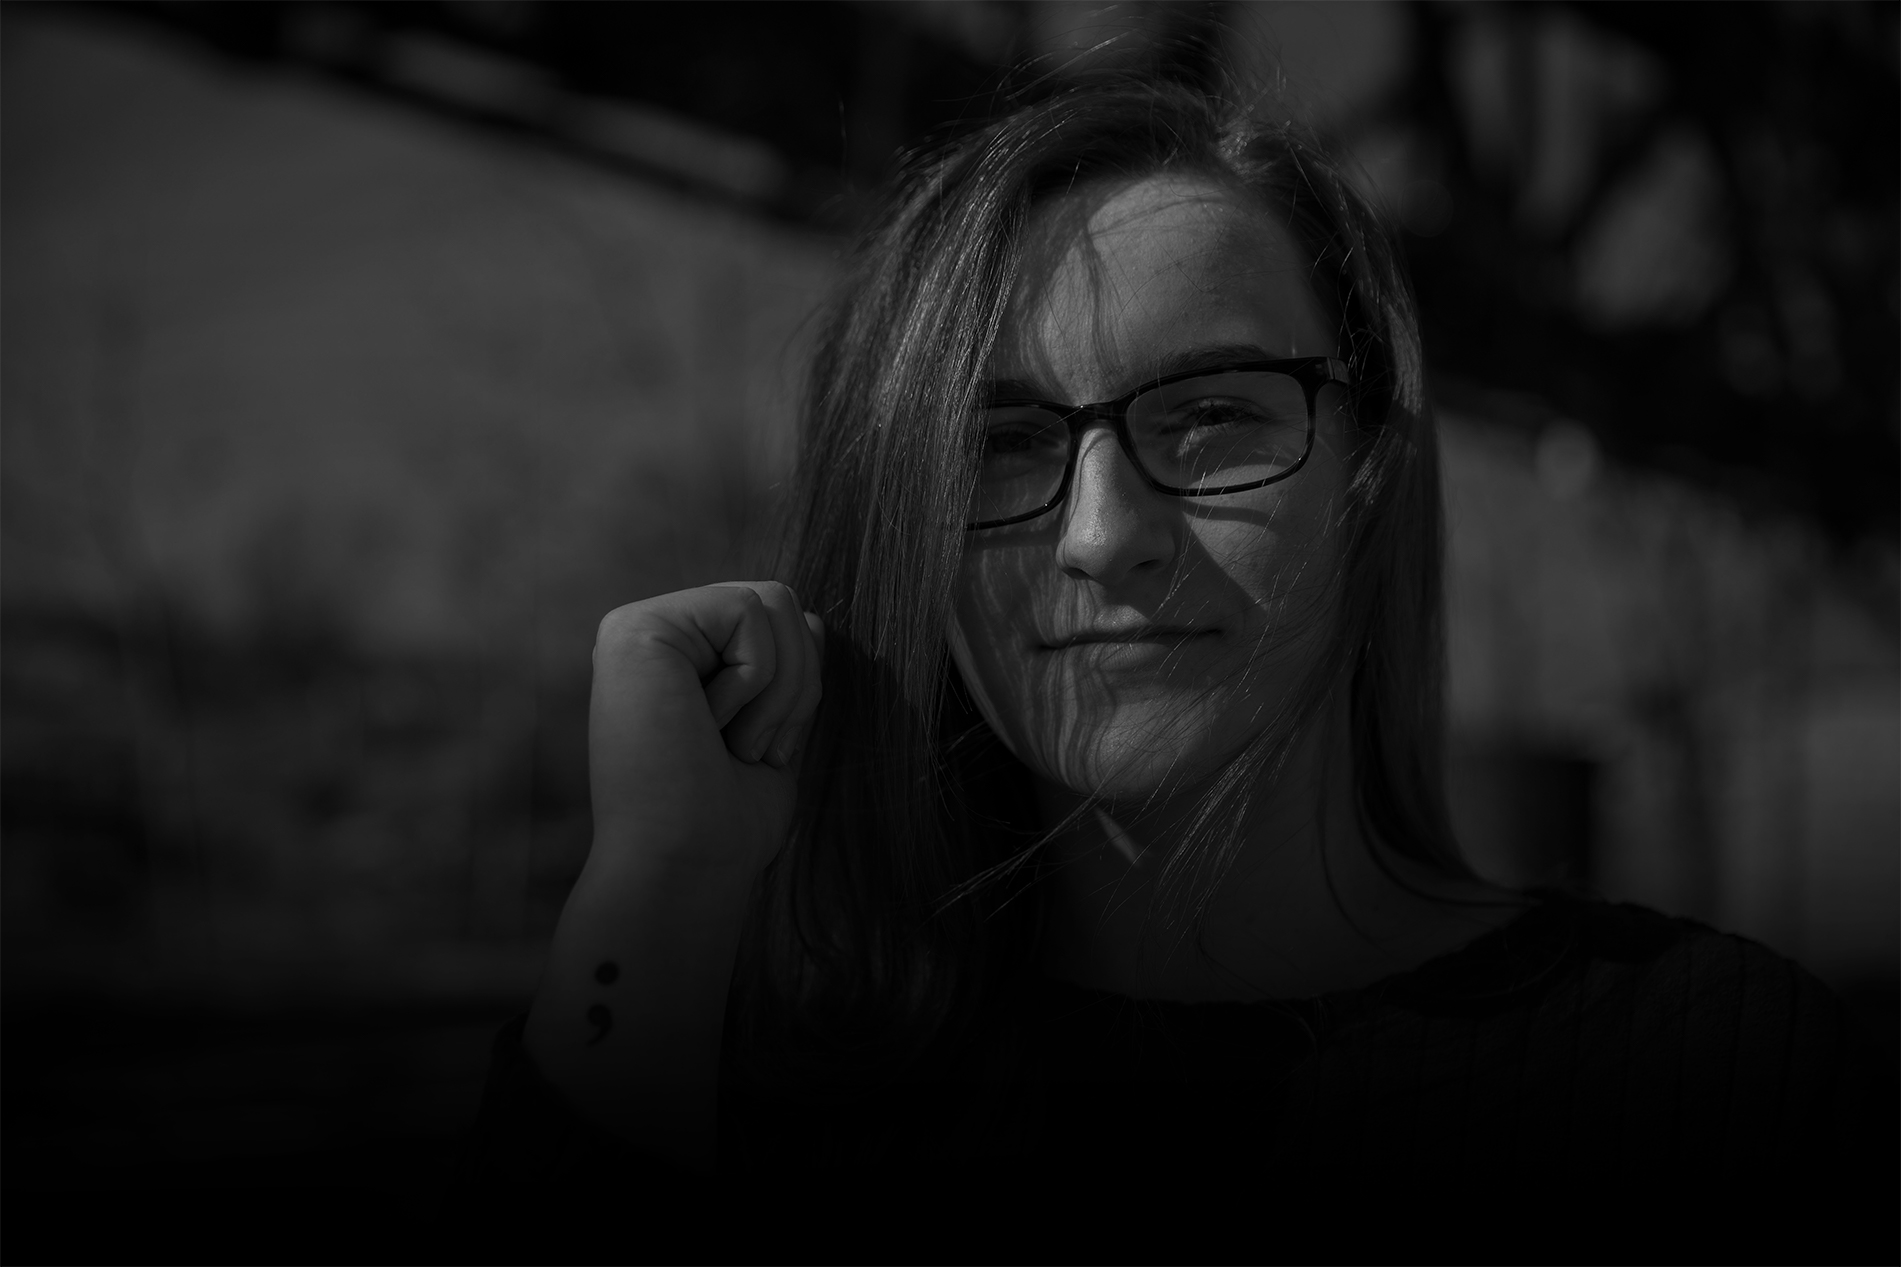
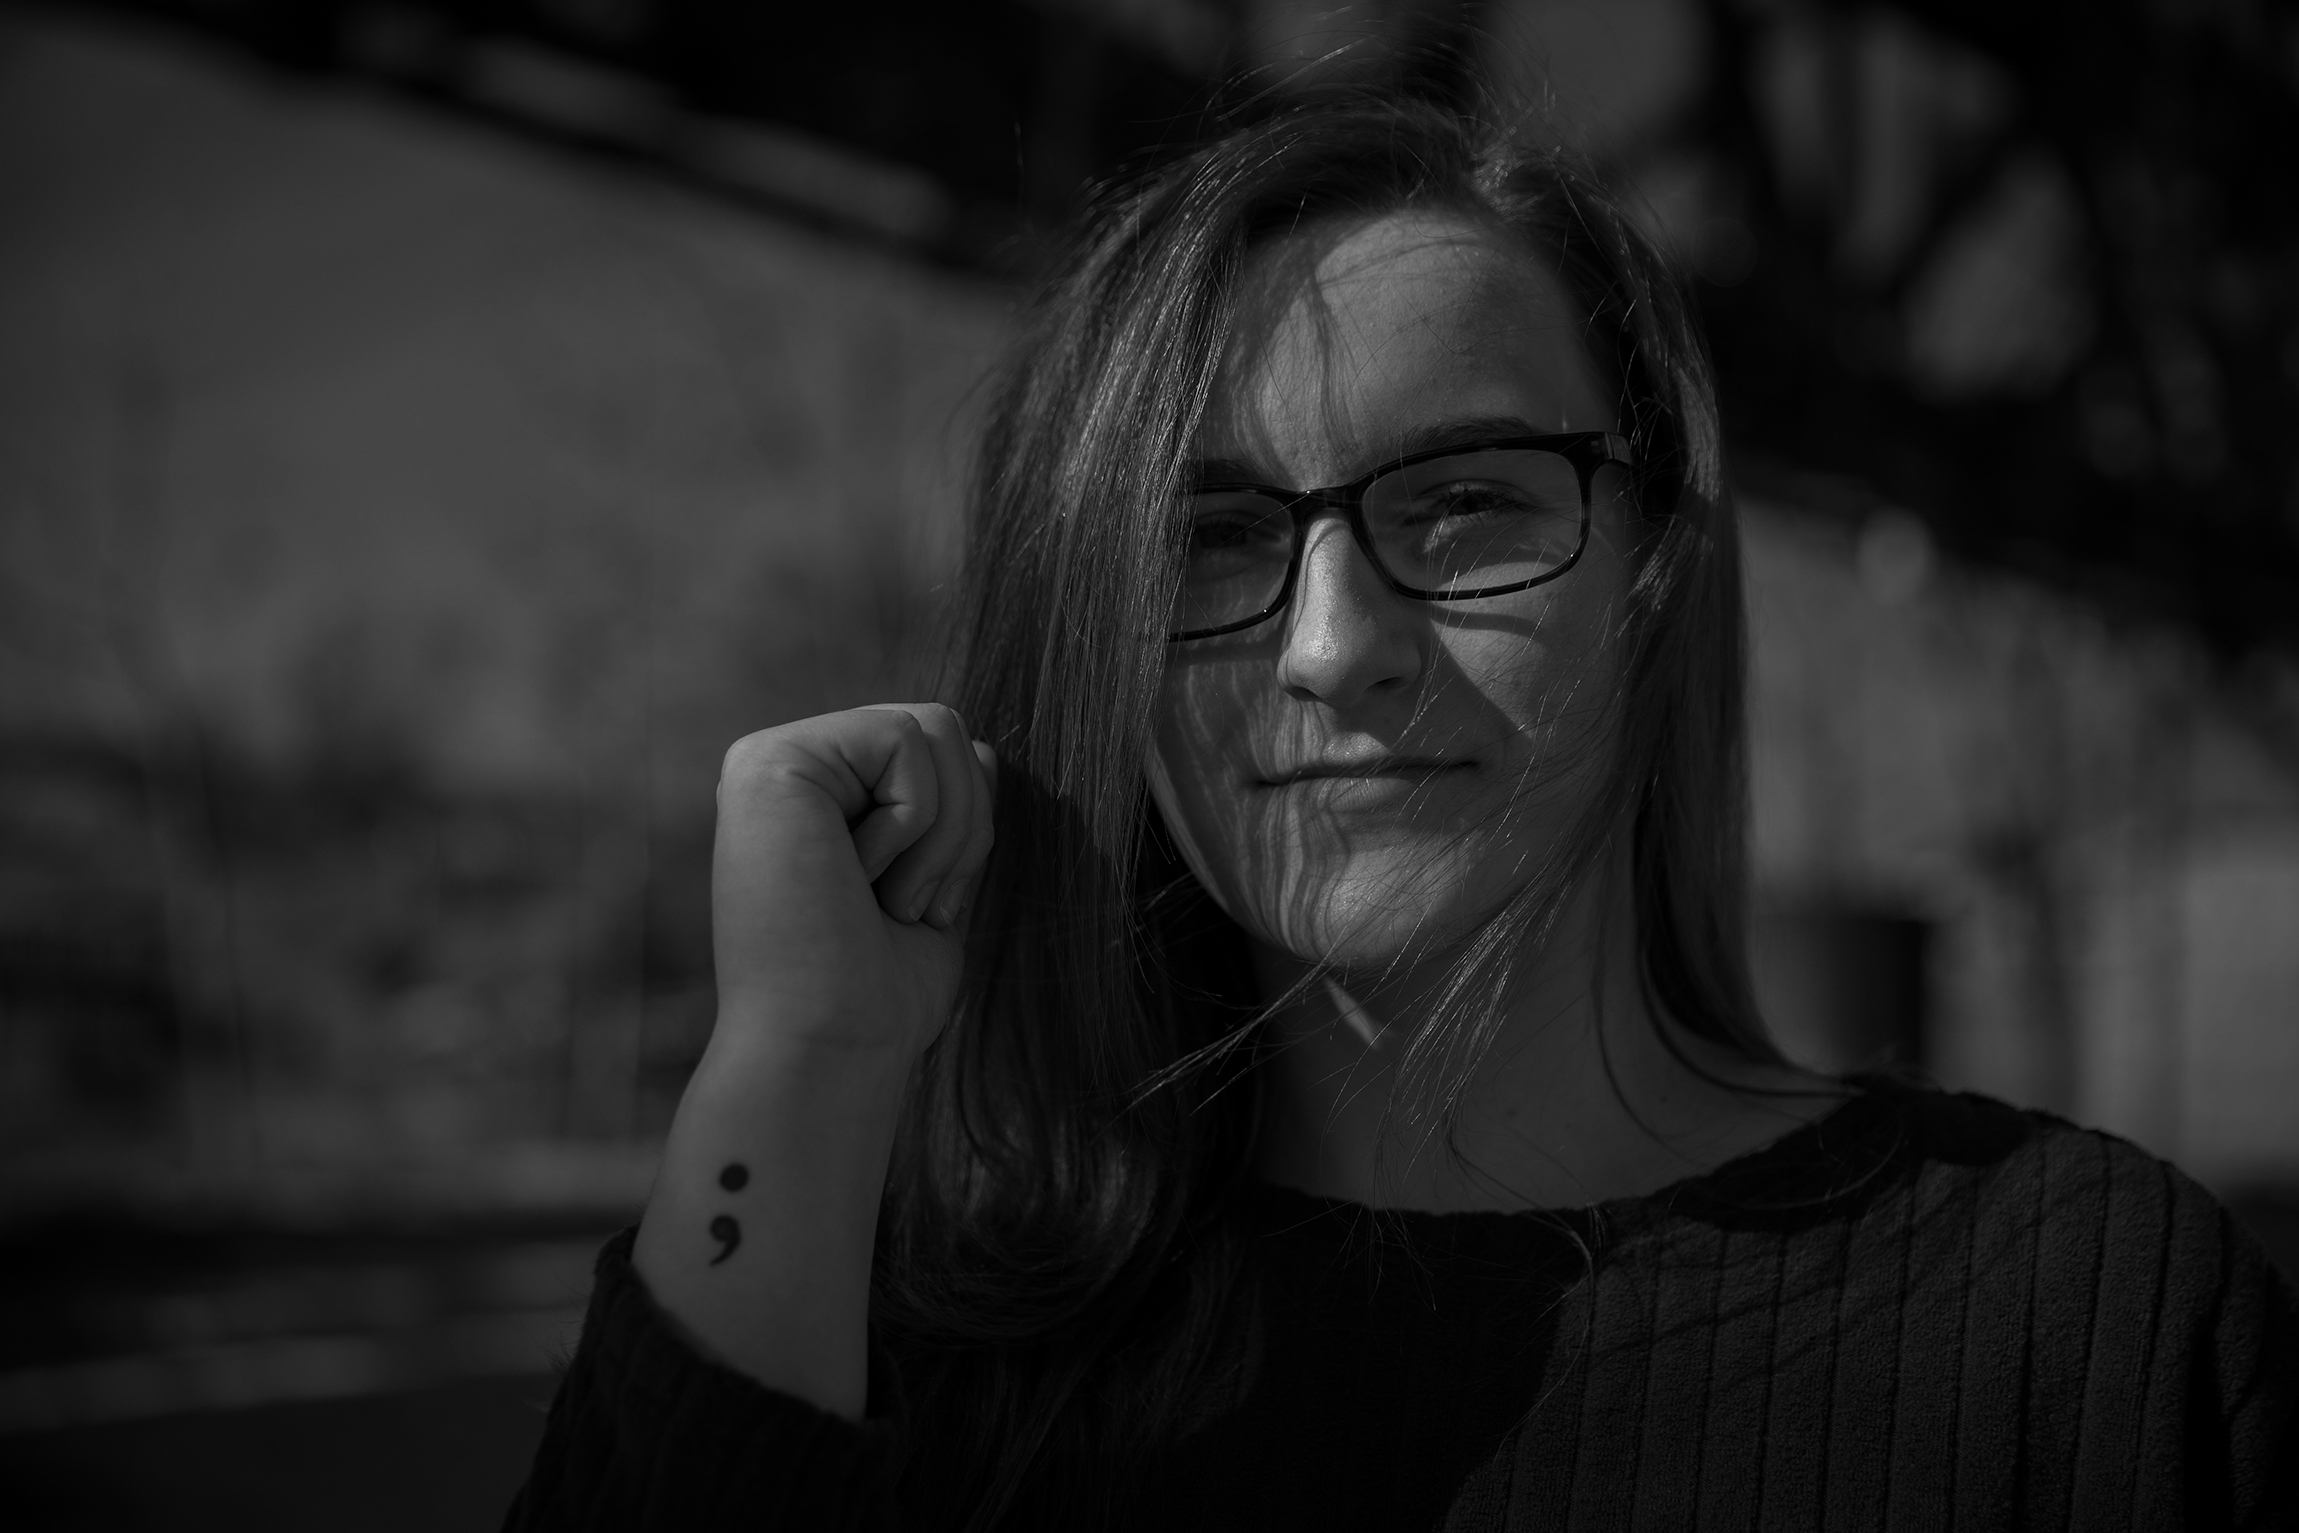
update

diff --git a/index.html b/index.html
@@ -39,14 +39,14 @@ padding-top: 5vh;
   color: #444; /* rgba not supported (IE 8) */
   color: rgba(0, 0, 0, 0.80); /* rgba supported */
   border: 1px solid #999;  /*IE 6/7/8*/
-  border: none rgba(0, 0, 0, 0);  /*IE9 + everything else*/
+   /*IE9 + everything else*/
   background-color: white;
   text-decoration: none;
   border-radius: 2px;
 }
 
 .button.active {
-  background: dimgrey;
+  background: #383838;
   color: #fff;
 }
 
@@ -81,7 +81,7 @@ padding-top: 5vh;
 
     .year {
       font-size: 18px;
-      fill: #636363;
+      fill: black;
       padding: 3px;
       background-color: black;
       border-radius: 5px;
@@ -92,7 +92,7 @@ padding-top: 5vh;
       font-size: 18px;
       border-radius: 5px;
       padding: 3px;
-      fill: #636363;
+      fill: black;
       cursor: default;
     }
 
@@ -167,7 +167,7 @@ padding-top: 5vh;
 
 .background {
   background-image: linear-gradient(to bottom, transparent, 80%, black),
-                    url("landing_page_original.jpg");
+                    url("landing_page.jpg");
   height: 100%;
   background-position: center;
   background-repeat: no-repeat;
@@ -213,7 +213,12 @@ h3 {
 }
 
 h4 {
+  /* color: #d1d1d1; */
   font-size: 1.8em;
+  /* text-shadow: 1px 1px 1px #000; */
+
+  /* -webkit-text-stroke-width: 0.3px;
+  -webkit-text-stroke-color: white; */
   text-align: center;
   padding-top: 30px
 }
@@ -247,7 +252,7 @@ p {
   padding: 0 15px;
   margin-bottom: 1em;
   font-family: 'Roboto', sans-serif;
-  font-size: 1.0em;
+  font-size: 1.1em;
   padding-bottom: 4vh;
 }
 
@@ -516,6 +521,19 @@ color: White
   padding-bottom: 100px;
 }
 
+@media (min-width: 1980px) {
+
+#bubble {
+  padding-left: 40%;
+}
+}
+
+
+@media screen and (max-width: 1980px) and (min-width: 992px) {
+  #bubble {
+    padding-left: 30%;
+  }
+}
 
 @media (max-width: 992px) {
 
@@ -715,7 +733,8 @@ p {
     <p>Twenty-one of the suicides examined by the newspaper were by girls, and 42 — about 66% — were by boys.</p>
 </div>
     <div class="container1">
-      <h4>Suicides by minors in Arkansas from 2012 to 2017</h4>
+
+      <h4 style="color: #e6e6e6; text-shadow: 2px 2px 8px #000000;">Suicides by minors in Arkansas from 2012 to 2017</h4>
       <div id="toolbar">
         <a id="all" class="button active">All deaths</a>
         <!-- <a id="manner" class="button">By manner</a> -->
